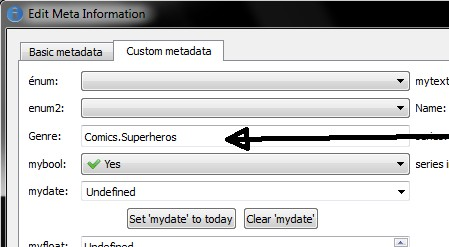
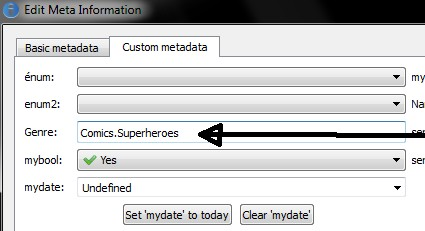
Fix typo in subgroups manual.

Changed region(s): [[0.0, 0.0, 1.0, 1.0]]

diff --git a/src/calibre/manual/sub_groups.rst b/src/calibre/manual/sub_groups.rst
@@ -70,7 +70,7 @@ Then after restarting |app|, you must tell |app| that the column is to be treate
 
 At the point there are no genres in the column. We are left with the last step: how to apply a genre to a book. A genre does not exist in |app| until it appears on at least one book. To learn how to apply a genre for the first time, we must go into some detail about what a genre looks like in the metadata for a book.
 
-A hierarchy of 'things' is built by creating an item consisting of phrases separated by periods. Continuing the genre example, these items would "History.Military", "Mysteries.Vampire", "Science Fiction.Space Opera", etc. Thus to create a new genre, you pick a book that should have that genre, edit its metadata, and enter the new genre into the column you created. Continuing our example, if you want to assign a new genre "Comics" with a sub-genre "Superheros" to a book, you would 'edit metadata' for that (comic) book, choose the Custom metadata tab, and then enter "Comics.Superheros" as shown in the following (ignore the other custom columns):
+A hierarchy of 'things' is built by creating an item consisting of phrases separated by periods. Continuing the genre example, these items would "History.Military", "Mysteries.Vampire", "Science Fiction.Space Opera", etc. Thus to create a new genre, you pick a book that should have that genre, edit its metadata, and enter the new genre into the column you created. Continuing our example, if you want to assign a new genre "Comics" with a sub-genre "Superheroes" to a book, you would 'edit metadata' for that (comic) book, choose the Custom metadata tab, and then enter "Comics.Superheroes" as shown in the following (ignore the other custom columns):
 
 .. image:: images/sg_genre.jpg
     :align: center
